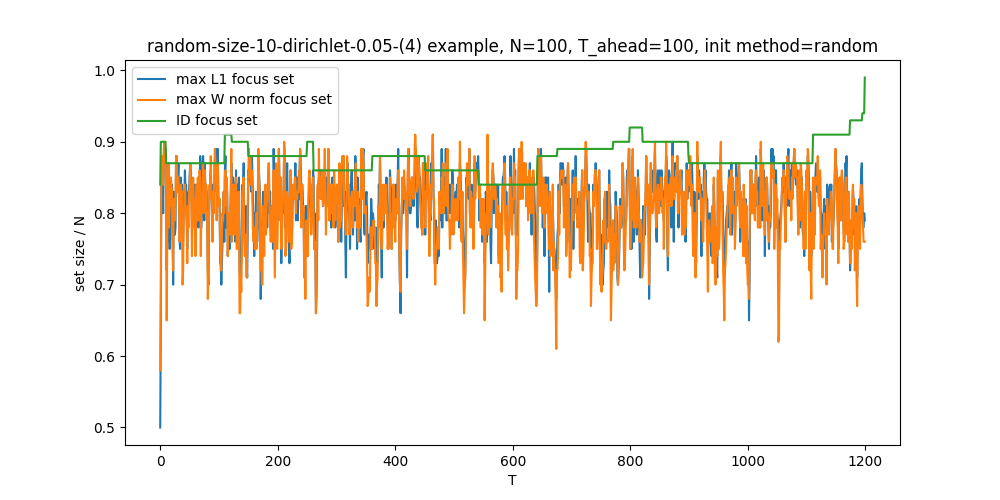
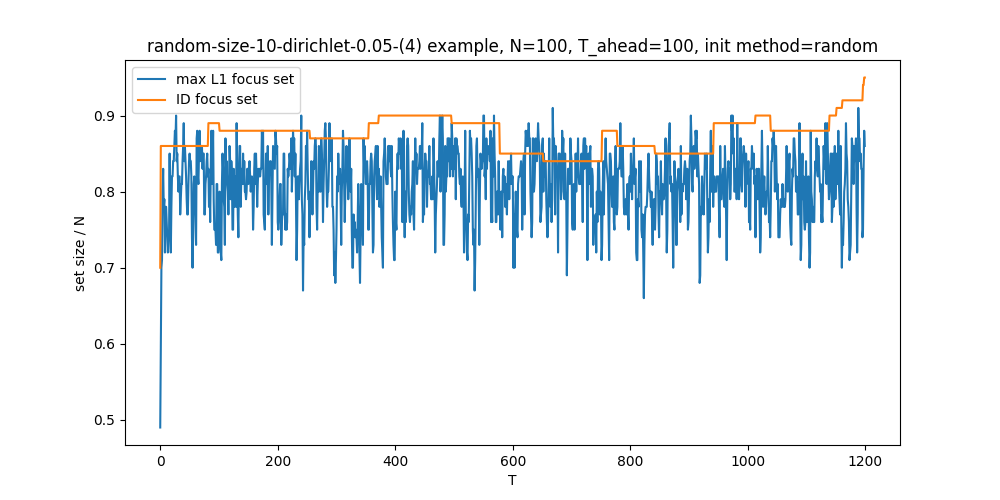
Fixed a small bug in plotting future resource requirement.

diff --git a/draft.py b/draft.py
@@ -64,7 +64,7 @@ def test_W_solver():
 
 
 def test_compute_future_max_req():
-    setting_name = "non-sa-big1"  #"random-size-10-dirichlet-0.05-(355)" #"random-size-4-uniform-(1)"
+    setting_name = "random-size-10-dirichlet-0.05-(6)" #"random-size-10-dirichlet-0.05-(355)"  #"random-size-10-dirichlet-0.05-(355)" #"random-size-4-uniform-(1)"
     setting_path = "setting_data/" + setting_name
     if setting_name == "eight-states":
         probs_L, probs_R, action_script, suggest_act_frac = rb_settings.ConveyorExample.get_parameters(
@@ -97,12 +97,12 @@ def test_compute_future_max_req():
         raise NotImplementedError
     N = 200
     act_frac = setting.suggest_act_frac
-    T_ahead = 50
+    T_ahead = 100
     num_points_show = 1
     # initialization = "steady-state" #"transient" # or "transient" or "steady-state"
     plot_W_norm = False
     init_method = "random"
-    T_burn_in = 2000
+    T_burn_in = 1000
     rb_settings.print_bandit(setting)
 
     analyzer = SingleArmAnalyzer(setting.sspa_size, setting.trans_tensor, setting.reward_tensor, act_frac)
@@ -144,6 +144,10 @@ def test_compute_future_max_req():
         future_reqs =  analyzer.get_future_expected_budget_requirements(init_state_fracs, T_ahead)
         print("initial_frequenty=", init_state_fracs)
         plt.plot(Ts, future_reqs - budget_line, label="requirement")
+        min_req_line = np.array([np.min(future_reqs - budget_line)]*len(Ts))
+        max_req_line = np.array([np.max(future_reqs - budget_line)]*len(Ts))
+        plt.plot(Ts, min_req_line, linestyle=":", label="min future req")
+        plt.plot(Ts, max_req_line, linestyle=":", label="max future req")
 
         Lone_bounds = analyzer.get_future_budget_req_bounds_Lone(init_state_fracs, T_ahead)
         plt.plot(Ts, Lone_bounds, linestyle="-.", label="L1 upper")
@@ -155,7 +159,11 @@ def test_compute_future_max_req():
             plt.plot(Ts, -W_norm_bounds, linestyle=":", label="W norm lower")
 
     plt.legend()
-    plt.savefig("figs2/future_budget_req_curves/future-budget-req-{}.png".format(setting_name))
+    if "dirichlet" in setting_name.split("-"):
+        short_name = "dirichlet-"+setting_name.split("-")[-1]
+    else:
+        short_name = setting_name
+    plt.savefig("figs2/future_budget_req_curves/future-budget-req-{}.png".format(short_name))
     plt.show()
 
 
@@ -366,7 +374,7 @@ def get_ID_max_norm_focus_set(cur_states, beta, opt_state_probs, norm, W=None, r
 
 
 def test_ID_focus_set():
-    setting_name = "new2-eight-states" #"random-size-10-dirichlet-0.05-(355)" #"random-size-4-uniform-(1)"
+    setting_name = "random-size-10-dirichlet-0.05-(6)"  #"random-size-10-dirichlet-0.05-(355)" #"random-size-4-uniform-(1)"
     setting_path = "setting_data/" + setting_name
     if setting_name == "eight-states":
         probs_L, probs_R, action_script, suggest_act_frac = rb_settings.ConveyorExample.get_parameters(
@@ -493,7 +501,7 @@ def test_ID_focus_set():
 
 def visualize_focus_sets_from_file():
     note = "T2e4"
-    setting_name = "new2-eight-states" #"random-size-10-dirichlet-0.05-(186)" #"non-sa-big1"
+    setting_name = "random-size-10-dirichlet-0.05-(6)" #"new2-eight-states" #"random-size-10-dirichlet-0.05-(186)" #"non-sa-big1"
     policies = ["id", "setexp"]
     linestyle_str = ["-",":","-.","--"]*10
     ideal_action_traces = {}
@@ -674,11 +682,11 @@ def understand_spatial_graph():
 # np.random.seed(114514)
 np.set_printoptions(precision=3)
 np.set_printoptions(linewidth=800)
-test_compute_future_max_req()
+# test_compute_future_max_req()
 # test_run_policies()
 # edit_data()
 # test_ID_focus_set()
-# visualize_focus_sets_from_file()
+visualize_focus_sets_from_file()
 # animate_ID_policy()
 # understand_whittle_index()
 # understand_spatial_graph()

diff --git a/discrete_RB.py b/discrete_RB.py
@@ -392,7 +392,7 @@ class SingleArmAnalyzer(object):
         for t in range(T_ahead):
             budget_reqs.append(np.matmul(self.policy[:,1].T, cur_state_dist))
             cur_state_dist = np.matmul(self.Ppibs.T, cur_state_dist)
-        return budget_reqs
+        return np.array(budget_reqs)
 
     def get_future_budget_req_bounds_Lone(self, state_dist, T_ahead):
         cur_state_dist = state_dist
@@ -401,7 +401,7 @@ class SingleArmAnalyzer(object):
             cur_Lone_norm = np.linalg.norm(cur_state_dist - self.state_probs, ord=1)
             bounds.append(cur_Lone_norm / 2)
             cur_state_dist = np.matmul(self.Ppibs.T, cur_state_dist)
-        return bounds
+        return np.array(bounds)
 
     def get_future_budget_req_bounds_Wnorm(self, state_dist, T_ahead):
         W = self.compute_W(abstol=1e-10)[0]
@@ -414,7 +414,7 @@ class SingleArmAnalyzer(object):
             cur_W_norm = np.sqrt(np.matmul(np.matmul(x_minus_mu.T, W), x_minus_mu))
             bounds.append(cur_W_norm * ratiocw)
             cur_state_dist = np.matmul(self.Ppibs.T, cur_state_dist)
-        return bounds
+        return np.array(bounds)
 
     def compute_Phi(self, verbose=True):
         y = self.y.value
